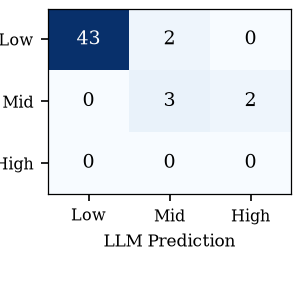
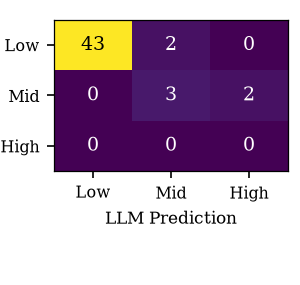
Figure 5: equal axes boxes across panels; viridis palette (bars + confusion maps)

diff --git a/visualize/visualize_rq4_alignment.py b/visualize/visualize_rq4_alignment.py
@@ -48,7 +48,8 @@ BIN_LABELS = ["Low", "Mid", "High"]
 
 # Shared figure geometry so all four panels render with the same axes box.
 PANEL_FIGSIZE = (2.0, 1.9)
-PANEL_ADJUST = dict(left=0.16, right=0.97, bottom=0.32, top=0.97)
+# Shared margins so all four panels render with the SAME axes box.
+PANEL_ADJUST = dict(left=0.18, right=0.96, bottom=0.40, top=0.93)
 
 
 def _num(series):
@@ -105,15 +106,15 @@ def figure_alignment_scores(tox_df, rea_df, out_stem):
     fig, ax = plt.subplots(figsize=PANEL_FIGSIZE)
     x = np.arange(len(labels))
     w = 0.38
-    ax.bar(x - w / 2, r_vals, w, label="Pearson r", color="#9bb6e3")
-    ax.bar(x + w / 2, rho_vals, w, label="Spearman ρ", color="#f5a978")
+    ax.bar(x - w / 2, r_vals, w, label="Pearson r", color=plt.cm.viridis(0.25))
+    ax.bar(x + w / 2, rho_vals, w, label="Spearman ρ", color=plt.cm.viridis(0.70))
     ax.set_xticks(x)
     ax.set_xticklabels(labels, rotation=90, fontsize=6.5)
     ax.tick_params(axis="y", labelsize=7.5)
     ax.set_ylim(0, 1.05)
     ax.legend(loc="upper left", fontsize=7, frameon=False)
     ax.grid(axis="y", linestyle="--", alpha=0.4)
-    fig.subplots_adjust(left=0.17, right=0.97, bottom=0.40, top=0.97)
+    fig.subplots_adjust(**PANEL_ADJUST)
 
     plt.savefig(f"{out_stem}.png", dpi=150)
     plt.savefig(f"{out_stem}.pdf")
@@ -151,13 +152,13 @@ def figure_flag_kappa(tox_df, out_stem):
 
     fig, ax = plt.subplots(figsize=PANEL_FIGSIZE)
     x = np.arange(len(labels))
-    ax.bar(x, kappas, color="#2a9d8f", width=0.6)
+    ax.bar(x, kappas, color=plt.cm.viridis(0.45), width=0.6)
     ax.set_xticks(x)
     ax.set_xticklabels(labels, rotation=0, fontsize=8)
     ax.tick_params(axis="y", labelsize=7.5)
     ax.set_ylim(0, 1.05)
     ax.grid(axis="y", linestyle="--", alpha=0.4)
-    fig.subplots_adjust(left=0.16, right=0.97, bottom=0.15, top=0.97)
+    fig.subplots_adjust(**PANEL_ADJUST)
 
     plt.savefig(f"{out_stem}.png", dpi=150)
     plt.savefig(f"{out_stem}.pdf")
@@ -186,7 +187,7 @@ def _confusion_3x3(df, e1_col, e2_col, llm_col):
 
 
 def _plot_confusion(ax, cm, title=None):
-    ax.imshow(cm, cmap="Blues", aspect="auto")
+    ax.imshow(cm, cmap="viridis", aspect="auto")
     ax.set_xticks(range(3))
     ax.set_yticks(range(3))
     ax.set_xticklabels(BIN_LABELS, fontsize=7.5)
@@ -198,7 +199,7 @@ def _plot_confusion(ax, cm, title=None):
     max_v = cm.max() if cm.size else 0
     for i in range(3):
         for j in range(3):
-            color = "white" if cm[i, j] > max_v * 0.5 else "black"
+            color = "black" if cm[i, j] > max_v * 0.5 else "white"
             ax.text(j, i, str(int(cm[i, j])), ha="center", va="center",
                     color=color, fontsize=9)
 
